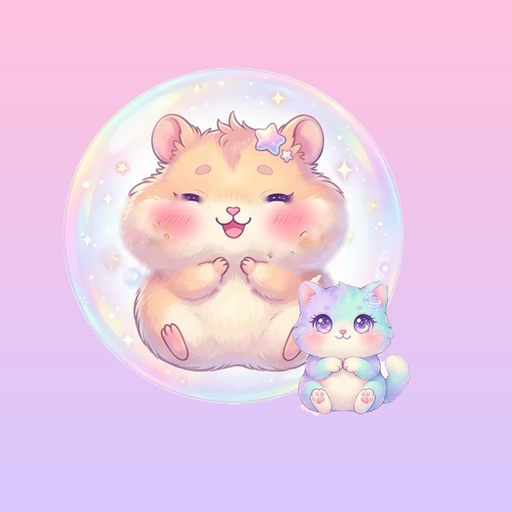
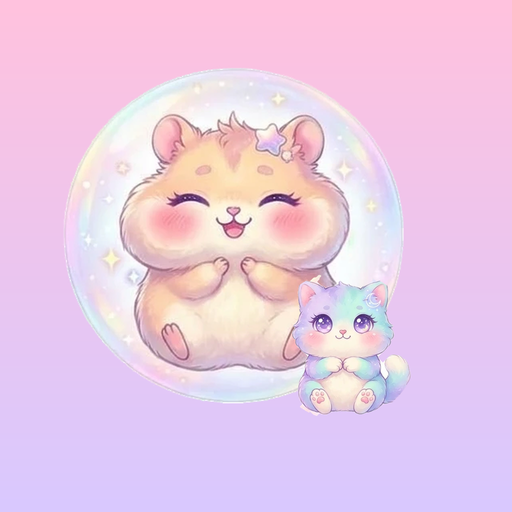
견과류 없는 새 햄스터 시안 적용 + 햄스터 나라 깃발을 파스텔 무지개로
- 새 시안(견과류 없음)으로 일러스트·대전 스프라이트·앱 아이콘(안드로이드·iOS·플레이스토어) 다시 만듦
- 프롤로그·엔딩·땅 깃발: 빨강+노란 별 → 파스텔 무지개 줄무늬
- 땅·독립 표시 이모지 🚩 → 🌈 (칭호, 랭킹, 상점, 문구). 연승 햄스터의 Win 깃발은 그대로

Claude-Session: https://claude.ai/code/session_01BuUDiHwYkH3HVFNPK1RFBw

diff --git a/app/src/main/java/com/bubble/game/ui/Story.kt b/app/src/main/java/com/bubble/game/ui/Story.kt
@@ -53,6 +53,7 @@ import androidx.compose.ui.graphics.Brush
 import androidx.compose.ui.graphics.Color
 import androidx.compose.ui.graphics.Path
 import androidx.compose.ui.graphics.drawscope.DrawScope
+import androidx.compose.ui.graphics.drawscope.clipPath
 import androidx.compose.ui.graphics.graphicsLayer
 import androidx.compose.ui.res.painterResource
 import androidx.compose.ui.text.font.FontWeight
@@ -67,7 +68,7 @@ import kotlin.math.sin
 
 /*
  * 📜 세계관: 거대한 고양이 왕국에 살던 햄스터들이 "우리 땅!"을 외치며 독립을 선언했고,
- * 그래서 고양이와 햄스터의 방울 대결이 시작됐다. 💰 대신 점수를 모아 🚩 땅을 사면 독립 엔딩.
+ * 그래서 고양이와 햄스터의 방울 대결이 시작됐다. 💰 대신 점수를 모아 🌈 땅을 사면 독립 엔딩.
  */
 
 /** 꿈꾸는 밤하늘 배경 (파스텔 보라 → 분홍) + 반짝이는 별 */
@@ -132,10 +133,10 @@ private fun prologueText(page: Int): String = when (page) {
         ja = "びっくりしたネコ王国！\nこうしてネコとハムスターの💥バブル対決がはじまりました。",
     )
     else -> tr(
-        "꼬마 햄스터야, 고양이들을 이기고\n점수를 모아 🚩 우리 땅을 되찾자!",
-        "Little hamster, beat the cats, collect points,\nand win back 🚩 our own land!",
-        zh = "小仓鼠，打败猫咪、收集分数，\n夺回 🚩 我们的土地吧！",
-        ja = "ちびハムスター、ネコたちに勝ってスコアを集めて、\n🚩 ぼくらの土地を取りもどそう！",
+        "꼬마 햄스터야, 고양이들을 이기고\n점수를 모아 🌈 우리 땅을 되찾자!",
+        "Little hamster, beat the cats, collect points,\nand win back 🌈 our own land!",
+        zh = "小仓鼠，打败猫咪、收集分数，\n夺回 🌈 我们的土地吧！",
+        ja = "ちびハムスター、ネコたちに勝ってスコアを集めて、\n🌈 ぼくらの土地を取りもどそう！",
     )
 }
 
@@ -262,7 +263,7 @@ private fun PrologueArt(page: Int) {
     }
 }
 
-/** 🚩 펄럭이는 햄스터 깃발 (분홍 천에 노란 별) */
+/** 🏳 펄럭이는 햄스터 나라 깃발 (파스텔 무지개 줄무늬) */
 @Composable
 fun WavingFlag(modifier: Modifier) {
     val t = rememberInfiniteTransition(label = "flag")
@@ -295,25 +296,23 @@ private fun DrawScope.drawFlag(phase: Float) {
         path.lineTo(x, top + fh + wave)
     }
     path.close()
-    drawPath(path, Brush.horizontalGradient(listOf(Color(0xFFFF8FB8), Color(0xFFFFB3CF)), startX = poleX, endX = poleX + fw))
-    // 별
-    val cx = poleX + fw * 0.5f
-    val cy = top + fh * 0.5f + sin(phase + 8 * 0.55f) * h * 0.017f
-    val star = Path()
-    val ro = fh * 0.3f
-    val ri = ro * 0.45f
-    for (k in 0 until 10) {
-        val r = if (k % 2 == 0) ro else ri
-        val a = -PI / 2 + k * PI / 5
-        val px = cx + (r * kotlin.math.cos(a)).toFloat()
-        val py = cy + (r * sin(a)).toFloat()
-        if (k == 0) star.moveTo(px, py) else star.lineTo(px, py)
+    // 🌈 파스텔 무지개 줄무늬 (펄럭이는 천 모양 안에만)
+    val stripes = listOf(
+        Color(0xFFFFB3C7), Color(0xFFFFD1A6), Color(0xFFFFF0A8),
+        Color(0xFFBDEBC1), Color(0xFFB5D8FF), Color(0xFFD6C2FF),
+    )
+    clipPath(path) {
+        val sh = (fh + h * 0.08f) / stripes.size
+        stripes.forEachIndexed { i, c ->
+            drawRect(c, Offset(poleX, top - h * 0.04f + i * sh), Size(fw + 2f, sh + 1f))
+        }
+        // 살짝 반짝이는 광택
+        drawRect(Brush.verticalGradient(listOf(Color.White.copy(alpha = 0.35f), Color.Transparent), top, top + fh * 0.5f), Offset(poleX, top - h * 0.04f), Size(fw, fh * 0.5f))
     }
-    star.close()
-    drawPath(star, Color(0xFFFFE066))
+    drawPath(path, Color.White.copy(alpha = 0.6f), style = androidx.compose.ui.graphics.drawscope.Stroke(width = w * 0.012f))
 }
 
-/** 🚩 땅을 사면 나오는 독립 엔딩 컷. 누르면 닫힘. */
+/** 🌈 땅을 사면 나오는 독립 엔딩 컷. 누르면 닫힘. */
 @Composable
 fun LandEnding(name: String?, onDismiss: () -> Unit) {
     BackHandler(onBack = onDismiss)
@@ -380,10 +379,10 @@ fun LandEnding(name: String?, onDismiss: () -> Unit) {
                 Spacer(Modifier.height(8.dp))
                 Text(
                     tr(
-                        "${name ?: "꼬마 햄스터"}의 활약으로\n햄스터들이 고양이 왕국에서 독립했어요! 🚩\n칭호 '독립 햄스터'를 받았고,\n랭킹에 깃발이 휘날려요.",
-                        "Thanks to ${name ?: "you"}, the hamsters are free from the Cat Kingdom! 🚩\nYou earned the title 'Free Hamster', and your flag now flies on the ranking.",
-                        zh = "多亏了${name ?: "你"}，仓鼠们从猫咪王国独立了！🚩\n你获得了称号“独立仓鼠”，排行榜上也会飘扬你的旗帜。",
-                        ja = "${name ?: "きみ"}の活躍で、ハムスターたちはネコ王国から独立しました！🚩\n称号「独立ハムスター」をゲット、ランキングに旗がはためきます。",
+                        "${name ?: "꼬마 햄스터"}의 활약으로\n햄스터들이 고양이 왕국에서 독립했어요! 🌈\n칭호 '독립 햄스터'를 받았고,\n랭킹에 깃발이 휘날려요.",
+                        "Thanks to ${name ?: "you"}, the hamsters are free from the Cat Kingdom! 🌈\nYou earned the title 'Free Hamster', and your flag now flies on the ranking.",
+                        zh = "多亏了${name ?: "你"}，仓鼠们从猫咪王国独立了！🌈\n你获得了称号“独立仓鼠”，排行榜上也会飘扬你的旗帜。",
+                        ja = "${name ?: "きみ"}の活躍で、ハムスターたちはネコ王国から独立しました！🌈\n称号「独立ハムスター」をゲット、ランキングに旗がはためきます。",
                     ),
                     fontSize = 15.sp, lineHeight = 22.sp, color = Color(0xFF4A3466), textAlign = TextAlign.Center,
                     modifier = Modifier.alpha(text2.value),
@@ -400,11 +399,11 @@ fun LandEnding(name: String?, onDismiss: () -> Unit) {
     }
 }
 
-/** "🚩 독립 햄스터" 칭호 배지 */
+/** "🌈 독립 햄스터" 칭호 배지 */
 @Composable
 fun IndependentBadge(modifier: Modifier = Modifier) {
     Text(
-        tr("🚩 독립 햄스터", "🚩 Free Hamster", zh = "🚩 独立仓鼠", ja = "🚩 独立ハムスター"),
+        tr("🌈 독립 햄스터", "🌈 Free Hamster", zh = "🌈 独立仓鼠", ja = "🌈 独立ハムスター"),
         fontSize = 13.sp, fontWeight = FontWeight.Black, color = Color.White,
         modifier = modifier
             .background(Brush.horizontalGradient(listOf(Color(0xFFFF7FAE), Color(0xFFB58CFF))), RoundedCornerShape(50))

diff --git a/app/src/main/java/com/bubble/game/ui/Screens.kt b/app/src/main/java/com/bubble/game/ui/Screens.kt
@@ -316,7 +316,7 @@ fun BubbleApp(vm: AppViewModel) {
             if (mission != null) last.value = mission
             last.value?.let { MissionCelebration(it.label, it.coins, onDismiss = vm::dismissMission) }
         }
-        // 🚩 독립 엔딩 / 📜 프롤로그 (전체 화면, 가장 위)
+        // 🌈 독립 엔딩 / 📜 프롤로그 (전체 화면, 가장 위)
         if (lobby.landEnding && (screen == Screen.Shop || screen == Screen.Lobby)) {
             LandEnding(lobby.profile?.name, onDismiss = vm::dismissLandEnding)
         }
@@ -495,7 +495,7 @@ zh = "对手只能看到你的昵称，看不到 Google 名字", hi = "विर
                                 Text(p.name, fontWeight = FontWeight.Bold, fontSize = 18.sp, color = Ui.text, maxLines = 1, overflow = TextOverflow.Ellipsis, modifier = Modifier.weight(1f, fill = false))
                                 if (p.equipped == Animal.RABBIT) RibbonBadge(p.winStreak)
                             }
-                            // 🚩 땅을 사서 독립했으면 칭호 (누르면 엔딩 다시 보기)
+                            // 🌈 땅을 사서 독립했으면 칭호 (누르면 엔딩 다시 보기)
                             if (p.land) IndependentBadge(Modifier.padding(top = 2.dp).clickable(onClick = vm::showLandEnding))
                             Spacer(Modifier.height(4.dp))
                             Row(
@@ -2280,10 +2280,10 @@ zh = "⏱ 对手回合 ${Shop.DEFAULT_TURN_SEC}秒 → ${a.opponentTurnSec}秒",
             }
         }
 
-        // 🚩 땅: 최종 목표. 점수로만 (💰 상점 포인트는 결제로 살 수 있어서 못 씀), 한 번만
+        // 🌈 땅: 최종 목표. 점수로만 (💰 상점 포인트는 결제로 살 수 있어서 못 씀), 한 번만
         val landName = tr("땅", "Land", zh = "土地", ja = "土地")
         ShopCard(
-            title = tr("🚩 땅", "🚩 Land", zh = "🚩 土地", ja = "🚩 土地"),
+            title = tr("🌈 땅", "🌈 Land", zh = "🌈 土地", ja = "🌈 土地"),
             desc = tr(
                 "고양이 왕국 한가운데의 작은 땅 한 조각.\n이걸 사면… 독립을?!\n🎮 게임으로 모은 점수로만 살 수 있어요 (💰 상점 포인트 사용 불가)",
                 "A small patch of land in the middle of the Cat Kingdom.\nIf you buy it… independence?!\n🎮 Score earned in games only (💰 shop points can't be used)",
@@ -2291,7 +2291,7 @@ zh = "⏱ 对手回合 ${Shop.DEFAULT_TURN_SEC}秒 → ${a.opponentTurnSec}秒",
                 ja = "ネコ王国のまんなかにある小さな土地。\nこれを買えば…独立！？\n🎮 ゲームで集めたスコアだけで買えます（💰 ショップポイントは使えません）",
             ),
             price = Shop.LAND_PRICE,
-            owned = if (p.land) tr("🚩 우리 땅!", "🚩 Ours!", zh = "🚩 我们的土地！", ja = "🚩 ぼくらの土地！") else null,
+            owned = if (p.land) tr("🌈 우리 땅!", "🌈 Ours!", zh = "🌈 我们的土地！", ja = "🌈 ぼくらの土地！") else null,
             art = { LandArt(Modifier.size(88.dp)) },
         ) {
             if (p.land) {
@@ -2317,7 +2317,7 @@ zh = "⏱ 对手回合 ${Shop.DEFAULT_TURN_SEC}秒 → ${a.opponentTurnSec}秒",
     }
 
     confirm?.let { (item, label, price, qty) ->
-        // 상점 포인트 먼저, 모자라면 점수 (서버와 같은 규칙). 🚩 땅은 점수로만
+        // 상점 포인트 먼저, 모자라면 점수 (서버와 같은 규칙). 🌈 땅은 점수로만
         val fromCoins = if (item == "LAND") 0 else minOf(p?.coins ?: 0, price)
         val fromScore = price - fromCoins
         val after = (p?.score ?: 0) - fromScore

diff --git a/app/src/main/java/com/bubble/game/ui/AppViewModel.kt b/app/src/main/java/com/bubble/game/ui/AppViewModel.kt
@@ -163,7 +163,7 @@ data class LobbyUi(
     /** 내 순위 (TOP 100 밖이면 아래에 내 위아래 10명을 따로 보여줌) */
     val myRank: Int? = null,
     val aroundMe: List<RankRow> = emptyList(),
-    /** 🚩 땅을 사서 독립! 엔딩 컷 */
+    /** 🌈 땅을 사서 독립! 엔딩 컷 */
     val landEnding: Boolean = false,
 )
 
@@ -353,10 +353,10 @@ class AppViewModel(app: Application) : AndroidViewModel(app) {
     /** "POTION" 또는 동물 이름. 점수 검사·차감은 서버가 합니다. */
     fun buy(item: String, label: String, qty: Int = 1) = shopAction(tr("$label 구매 완료! 🎉", "Bought $label! 🎉", zh = "已购买 ${label}！🎉", hi = "$label खरीद लिया! 🎉", es = "¡Compraste $label! 🎉", fr = "$label acheté ! 🎉", ar = "تم شراء $label! 🎉", de = "$label gekauft! 🎉", pt = "Você comprou $label! 🎉", ru = "Куплено: $label! 🎉", ja = "${label}を買いました！🎉"), com.bubble.game.audio.Music.Sfx.BUY) { repo.buyItem(item, qty) }
 
-    /** 🚩 땅 사기 (점수로만). 성공하면 엔딩 컷. 점수가 크게 줄지만 계급 하락 팝업은 띄우지 않음 */
+    /** 🌈 땅 사기 (점수로만). 성공하면 엔딩 컷. 점수가 크게 줄지만 계급 하락 팝업은 띄우지 않음 */
     fun buyLand() = shopAction(
-        tr("🚩 우리 땅이 생겼어요! 햄스터 독립 만세!", "🚩 We have our own land! Hamster independence!",
-            zh = "🚩 我们有自己的土地了！仓鼠独立万岁！", ja = "🚩 ぼくらの土地ができた！ハムスター独立ばんざい！"),
+        tr("🌈 우리 땅이 생겼어요! 햄스터 독립 만세!", "🌈 We have our own land! Hamster independence!",
+            zh = "🌈 我们有自己的土地了！仓鼠独立万岁！", ja = "🌈 ぼくらの土地ができた！ハムスター独立ばんざい！"),
         com.bubble.game.audio.Music.Sfx.BUY,
     ) {
         lastRank = null

diff --git a/app/src/main/java/com/bubble/game/ui/Leaderboard.kt b/app/src/main/java/com/bubble/game/ui/Leaderboard.kt
@@ -76,7 +76,7 @@ data class RankedPlayer(
     val losses: Int?,
     /** 지금 보이는 캐릭터 (null이면 기본 고양이) */
     val look: Animal?,
-    /** 🚩 땅을 사서 독립한 햄스터 */
+    /** 🌈 땅을 사서 독립한 햄스터 */
     val land: Boolean = false,
 )
 
@@ -157,7 +157,7 @@ fun RankingRow(p: RankedPlayer, me: Boolean, onClick: () -> Unit) {
                 )
             }
             Text(Country.flag(p.country), fontSize = if (first) 18.sp else 16.sp, modifier = Modifier.width(26.dp))
-            val name = (if (p.land) "🚩 " else "") + p.name + if (me) tr(" (나)", " (me)", zh = " (我)", hi = " (मैं)", es = " (yo)", fr = " (moi)", ar = " (أنا)", de = " (ich)", pt = " (eu)", ru = " (я)", ja = " (自分)") else ""
+            val name = (if (p.land) "🌈 " else "") + p.name + if (me) tr(" (나)", " (me)", zh = " (我)", hi = " (मैं)", es = " (yo)", fr = " (moi)", ar = " (أنا)", de = " (ich)", pt = " (eu)", ru = " (я)", ja = " (自分)") else ""
             if (first) {
                 // 금빛 그라데이션 글자가 흐르듯 움직임
                 val x = goldShift * 600f
@@ -567,7 +567,7 @@ private fun CardBody(p: RankedPlayer, me: Boolean, fx: FxCard, modifier: Modifie
             CardCritter(p, fx)
             Spacer(Modifier.height(6.dp))
             // 닉네임 전체 (잘리지 않게 줄바꿈)
-            val name = (if (p.land) "🚩 " else "") + p.name + if (me) tr(" (나)", " (me)", zh = " (我)", es = " (yo)", fr = " (moi)", de = " (ich)", pt = " (eu)", ru = " (я)", ja = " (自分)") else ""
+            val name = (if (p.land) "🌈 " else "") + p.name + if (me) tr(" (나)", " (me)", zh = " (我)", es = " (yo)", fr = " (moi)", de = " (ich)", pt = " (eu)", ru = " (я)", ja = " (自分)") else ""
             if (p.position == 1) {
                 val x = fx.shine * 400f
                 Text(

diff --git a/app/src/main/java/com/bubble/game/data/OnlineRepository.kt b/app/src/main/java/com/bubble/game/data/OnlineRepository.kt
@@ -101,7 +101,7 @@ data class Profile(
     val potionAds: Int = 0,
     /** 주간 랭킹 보상 (아직 안 봤으면 팝업) */
     val weeklyReward: WeeklyReward? = null,
-    /** 🚩 땅을 사서 독립했는지 ("독립 햄스터" 칭호, 랭킹 깃발) */
+    /** 🌈 땅을 사서 독립했는지 ("독립 햄스터" 칭호, 랭킹 깃발) */
     val land: Boolean = false,
 ) {
     val rank: Rank get() = Rank.of(score)
@@ -121,7 +121,7 @@ data class RankRow(
     val wins: Int? = null, val losses: Int? = null,
     /** 지금 보이는 캐릭터 (null이면 기본 고양이) */
     val look: Animal? = null,
-    /** 🚩 독립 햄스터 */
+    /** 🌈 독립 햄스터 */
     val land: Boolean = false,
 )
 

diff --git a/app/src/main/java/com/bubble/game/game/Catalog.kt b/app/src/main/java/com/bubble/game/game/Catalog.kt
@@ -185,6 +185,6 @@ object Shop {
 
     const val DEFAULT_TURN_SEC = 20
 
-    /** 🚩 땅: 점수로만 사는 최종 목표 (💰 상점 포인트 사용 불가, 한 번만). functions/src/catalog.ts LAND_PRICE와 같게 */
+    /** 🌈 땅: 점수로만 사는 최종 목표 (💰 상점 포인트 사용 불가, 한 번만). functions/src/catalog.ts LAND_PRICE와 같게 */
     const val LAND_PRICE = 100_000
 }

diff --git a/README.md b/README.md
@@ -11,7 +11,7 @@
 
 구름 위 거대한 **고양이 왕국**에 살던 햄스터들이 "우리 땅을 갖고 싶다!"며 독립을 선언했고,
 그렇게 고양이와 햄스터의 방울 대결이 시작됐어요. 처음 실행하면 프롤로그 4컷이 한 번 나오고(건너뛰기 가능),
-로비의 **📜 이야기** 버튼으로 다시 볼 수 있어요. 최종 목표는 점수를 모아 상점의 **🚩 땅**을 사서 독립하는 것!
+로비의 **📜 이야기** 버튼으로 다시 볼 수 있어요. 최종 목표는 점수를 모아 상점의 **🌈 땅**을 사서 독립하는 것!
 
 ## 게임 규칙
 
@@ -71,7 +71,7 @@
 | 🐑 양 | 20점 (3개 50) | 소모품 · 그 판의 상대 턴 시간 20초 → 15초 |
 | 🐶 강아지 | 40점 (3개 100) | 소모품 · 상대 턴 시간 → 12초 |
 | 🦒 기린 | 70점 (3개 180) | 소모품 · 상대 턴 시간 → 8초 |
-| 🚩 땅 | 100,000점 | **점수로만** 구매 (💰 상점 포인트는 결제로 살 수 있어서 사용 불가) · 계정당 1번 · 독립 엔딩 컷, 칭호 "독립 햄스터", 랭킹 닉네임 앞에 🚩 |
+| 🌈 땅 | 100,000점 | **점수로만** 구매 (💰 상점 포인트는 결제로 살 수 있어서 사용 불가) · 계정당 1번 · 독립 엔딩 컷, 칭호 "독립 햄스터", 랭킹 닉네임 앞에 🌈 |
 
 동물은 **소모품**입니다. 장착한 채 랜덤 매칭이 잡히면 1개를 쓰고 그 판에만 캐릭터와 효과가 적용되며, 다 쓰면 기본 캐릭터로 돌아갑니다 (AI 대전에서는 쓰지 않음).
 
